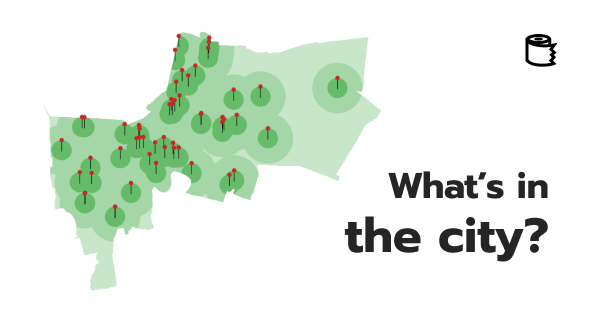
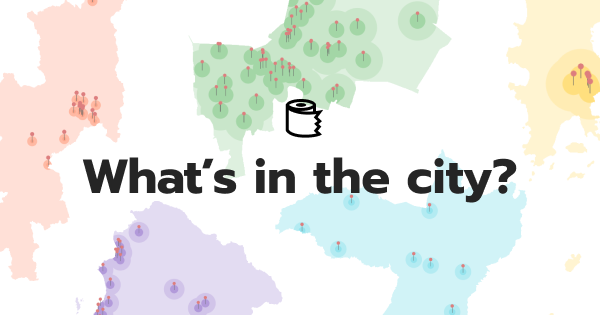
Add what's in the city in the main page

diff --git a/src/routes/index.svelte b/src/routes/index.svelte
@@ -17,6 +17,14 @@
 		class="flex-1 flex flex-col w-full max-w-screen-lg px-2 space-y-10 md:(px-6 space-y-12) mx-auto "
 	>
 		<ProjectCard
+			title="What's in the city?"
+			description="Explore different places in six example cities of Thailand. What kind of place does Thai flavor? What is the difference in each city?"
+			href="/whats-in-the-city/"
+			image="/whats-in-the-city/og.png"
+			date="12 Jan 2022"
+			lang="EN"
+		/>
+		<ProjectCard
 			title="Losses in Myanmar"
 			description="Get to know the victims demography during the 2021 coup d'état in Myanmar. #StandWithMyanmar"
 			href="/myanmar-coup/"

diff --git a/src/routes/whats-in-the-city/index.svelte b/src/routes/whats-in-the-city/index.svelte
@@ -51,7 +51,7 @@
 
 <Metadata
 	title="What's in the city?"
-	description="What kind of place does Thailand flavor?"
+	description="What kind of place does Thailand flavor in the different cities?"
 	path="/whats-in-the-city/"
 	image="/whats-in-the-city/og.png"
 />
